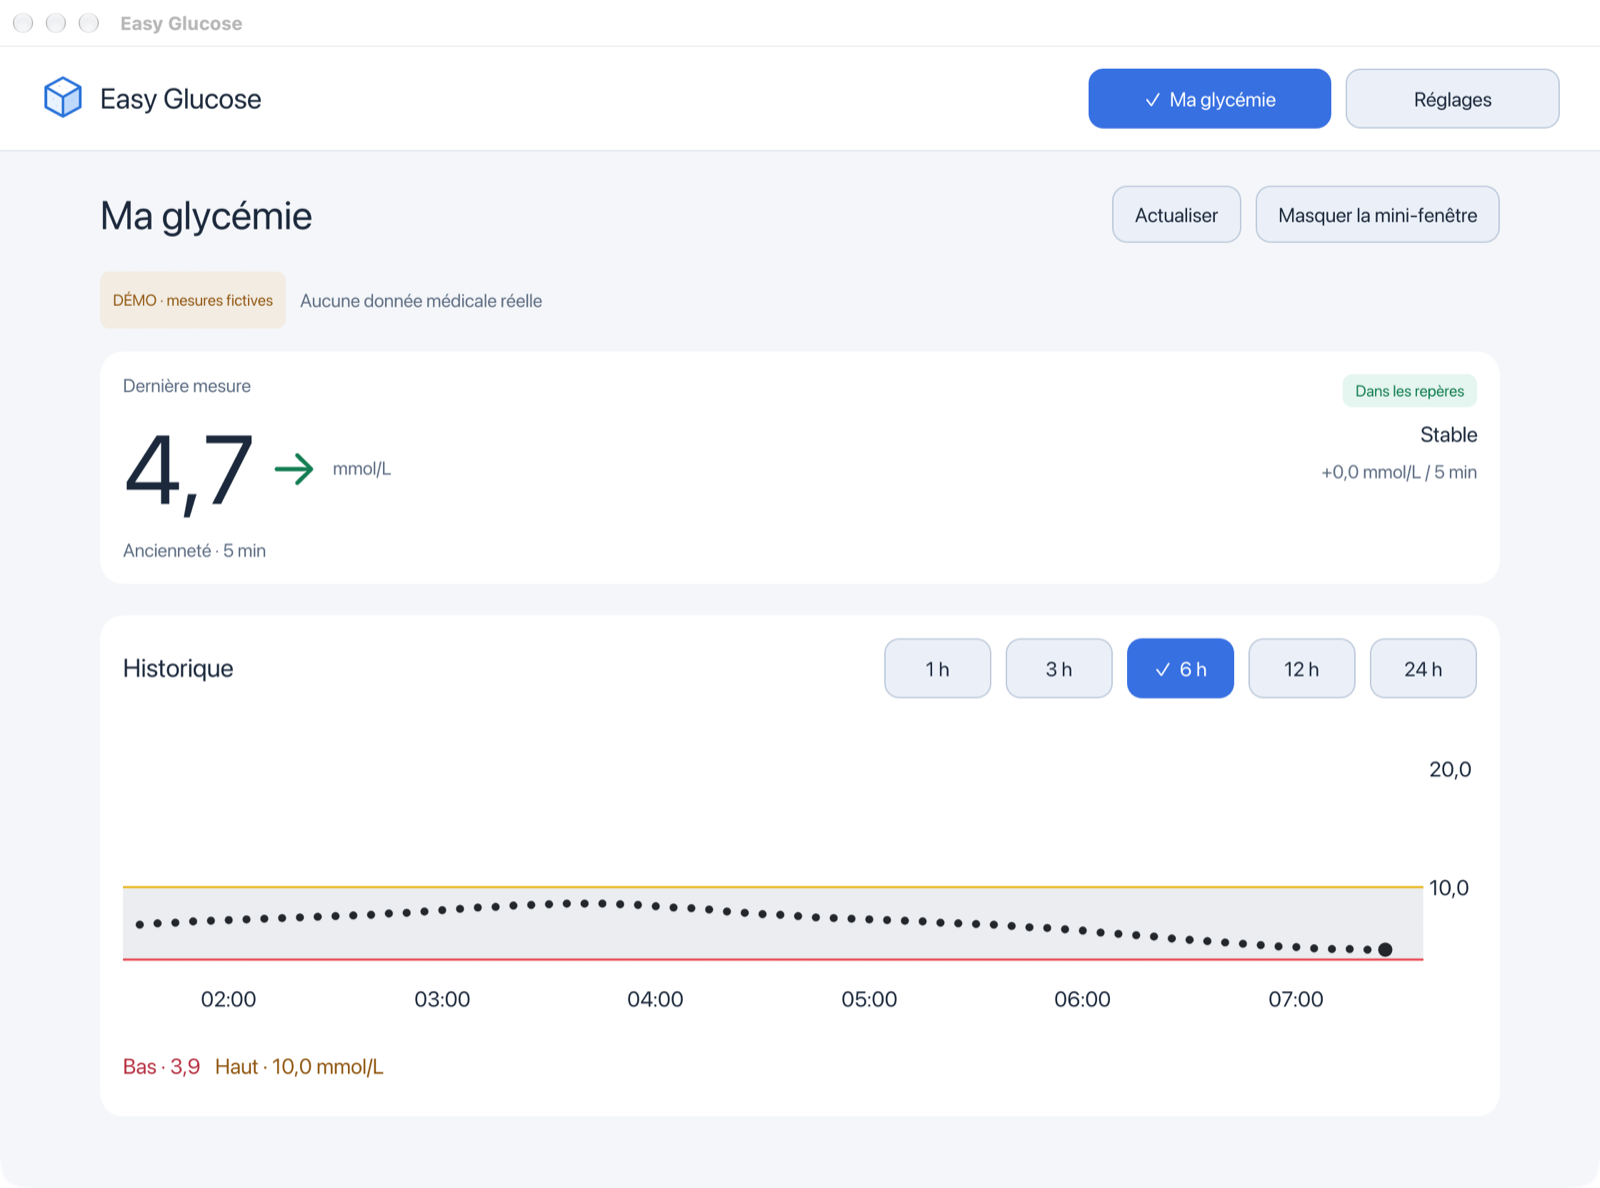
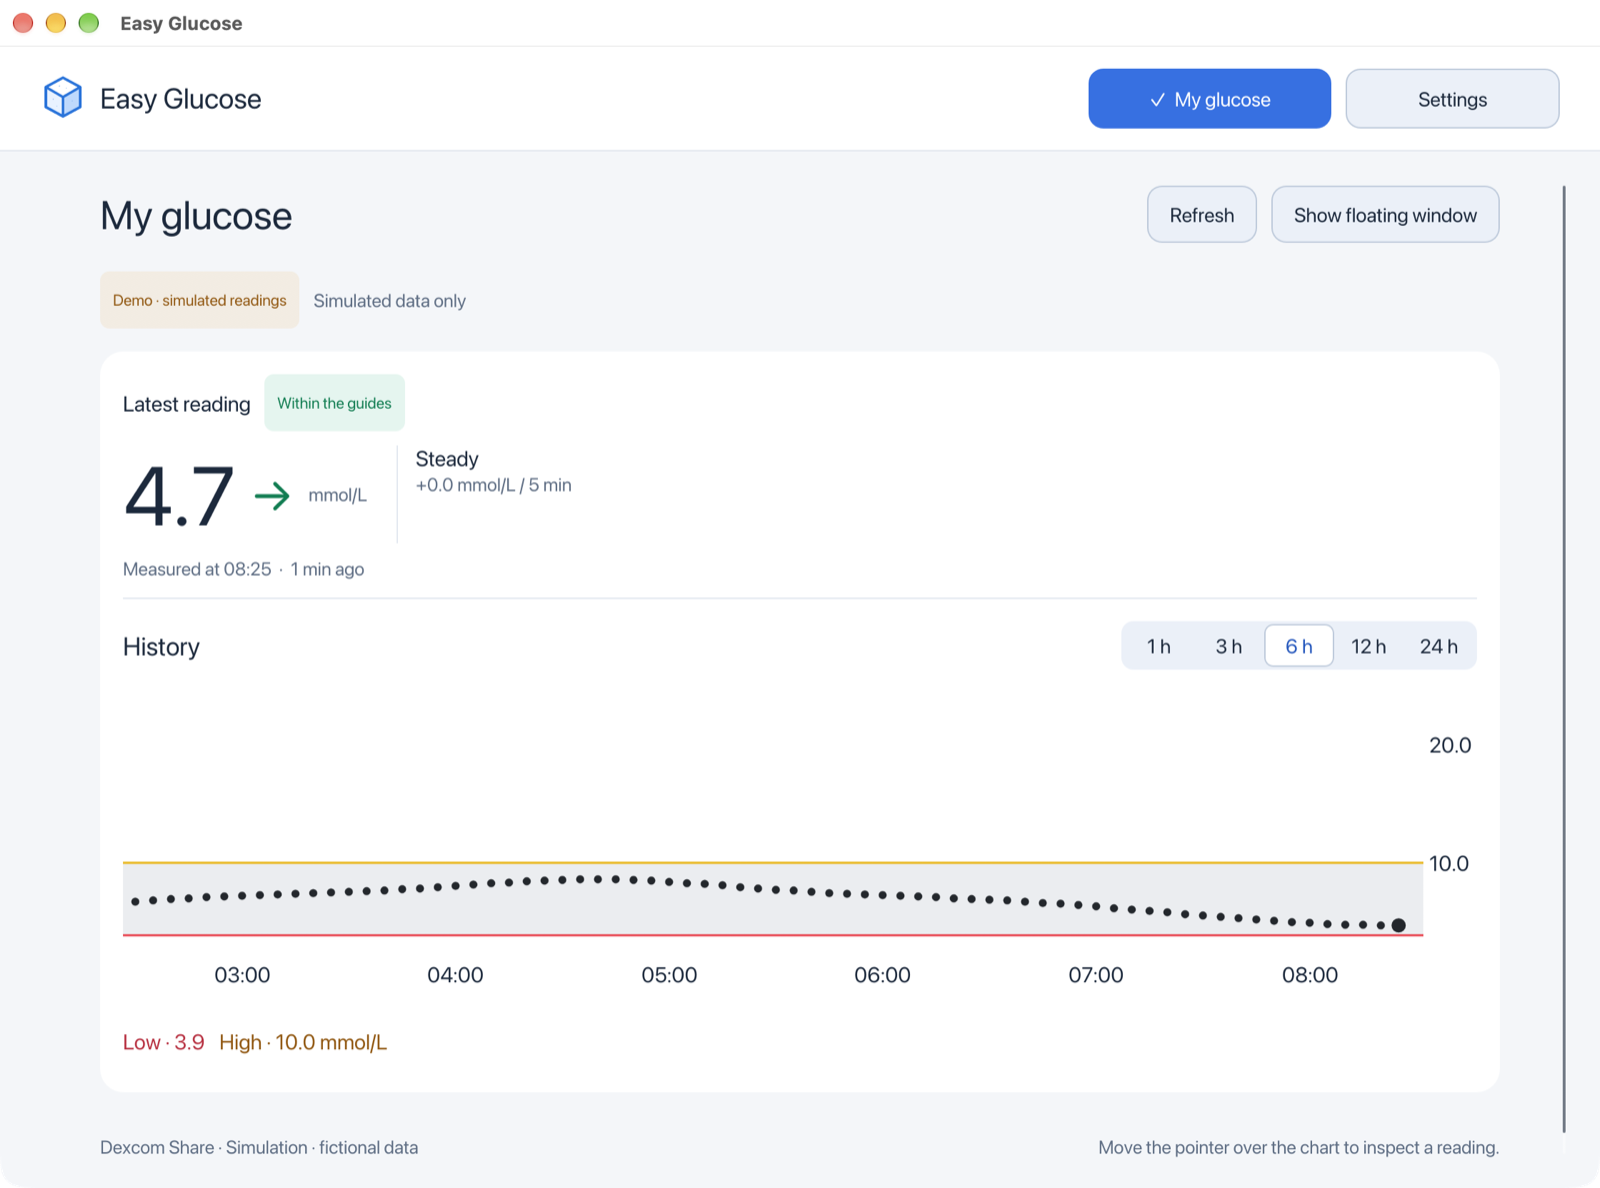
Group the latest glucose reading above its history
Keep the value, trend, change and measurement time together above the chart. Use one period selector and show relative time in all twenty languages.

Cover clock and stale boundaries and refresh the dashboard preview.

diff --git a/src/ui/dashboard.rs b/src/ui/dashboard.rs
@@ -1,7 +1,9 @@
 use crate::i18n::Text;
 use crate::{
     app::App,
-    core::{GAP_SECONDS, Reading, Unit, chart_segments, nearest_reading, recent_delta},
+    core::{
+        GAP_SECONDS, Reading, STALE_SECONDS, Unit, chart_segments, nearest_reading, recent_delta,
+    },
     services::State,
     ui::{self, theme},
 };
@@ -25,29 +27,37 @@ pub fn reading_color(app: &App) -> egui::Color32 {
     }
 }
 pub fn freshness(reading: &Reading) -> String {
-    let age = reading.age_seconds(Utc::now());
+    relative_age(reading.age_seconds(Utc::now()))
+}
+
+fn relative_age(age: i64) -> String {
     if age < -60 {
-        Text::Clock.get().into()
-    } else if age < 60 {
-        Text::JustNow.get().into()
-    } else if age < 3600 {
-        let duration = format!("{} {}", age / 60, Text::Minute.get());
-        if age >= 600 {
-            format!("{duration} · {}", Text::Stale.get())
-        } else {
-            format!("{} · {duration}", Text::Age.get())
-        }
+        return Text::Clock.get().into();
+    }
+    if age < 60 {
+        return Text::JustNow.get().into();
+    }
+    let minutes = (age % 3600) / 60;
+    let duration = if age < 3600 {
+        format!("{minutes} {}", Text::Minute.get())
+    } else if minutes == 0 {
+        format!("{} {}", age / 3600, Text::Hour.get())
     } else {
         format!(
-            "{} {} {} {} · {}",
+            "{} {} {minutes} {}",
             age / 3600,
             Text::Hour.get(),
-            (age % 3600) / 60,
-            Text::Minute.get(),
-            Text::Stale.get()
+            Text::Minute.get()
         )
+    };
+    let elapsed = Text::Ago.get().replace("{duration}", &duration);
+    if age >= STALE_SECONDS {
+        format!("{elapsed} · {}", Text::Stale.get())
+    } else {
+        elapsed
     }
 }
+
 pub fn show(app: &mut App, ui: &mut egui::Ui) {
     let p = theme::palette(ui.ctx());
     ui.horizontal(|ui| {
@@ -103,88 +113,78 @@ pub fn show(app: &mut App, ui: &mut egui::Ui) {
         .inner_margin(16)
         .show(ui, |ui| {
             ui.set_min_width(ui.available_width());
-            ui.columns(2, |cols| {
-                cols[0].vertical(|ui| {
-                    ui::muted(ui, Text::Latest.get());
-                    ui.horizontal(|ui| {
-                        let reading = app.snapshot.readings.last();
-                        ui.label(
-                            RichText::new(
-                                reading
-                                    .map(|r| r.display(app.config.unit))
-                                    .unwrap_or("—".into()),
-                            )
-                            .size(68.0)
+            ui.horizontal(|ui| {
+                ui.label(RichText::new(Text::Latest.get()).strong());
+                if let Some(reading) = app.snapshot.readings.last()
+                    && !reading.stale(Utc::now())
+                {
+                    let label = if reading.mgdl < app.config.low {
+                        Text::Below
+                    } else if reading.mgdl > app.config.high {
+                        Text::Above
+                    } else {
+                        Text::Within
+                    };
+                    ui::pill(ui, label.get(), reading_color(app));
+                }
+            });
+            if let Some(reading) = app.snapshot.readings.last() {
+                ui.horizontal(|ui| {
+                    ui.label(
+                        RichText::new(reading.display(app.config.unit))
+                            .size(58.0)
                             .strong(),
-                        );
-                        ui.label(
-                            RichText::new(reading.map(|r| r.trend.arrow()).unwrap_or("—"))
-                                .size(38.0)
-                                .color(theme::ink(ui.ctx(), reading_color(app))),
-                        );
-                        ui::muted(ui, app.config.unit.label());
-                    });
-                    ui::muted(
-                        ui,
-                        app.snapshot
-                            .readings
-                            .last()
-                            .map(freshness)
-                            .unwrap_or(Text::ConnectHint.get().into()),
                     );
-                });
-                cols[1].with_layout(egui::Layout::top_down(egui::Align::RIGHT), |ui| {
-                    ui.with_layout(egui::Layout::top_down(egui::Align::RIGHT), |ui| {
-                        if let Some(r) = app.snapshot.readings.last() {
-                            let label = if r.stale(Utc::now()) {
-                                Text::Stale.get()
-                            } else if r.mgdl < app.config.low {
-                                Text::Below.get()
-                            } else if r.mgdl > app.config.high {
-                                Text::Above.get()
-                            } else {
-                                Text::Within.get()
-                            };
-                            ui::pill(ui, label, reading_color(app));
-                            ui.label(r.trend.label());
-                            if let Some((delta, minutes)) = recent_delta(&app.snapshot.readings) {
-                                ui::muted(
-                                    ui,
-                                    format!(
-                                        "{} {} / {minutes} {}",
-                                        app.config.unit.delta(delta),
-                                        app.config.unit.label(),
-                                        Text::Minute.get()
-                                    ),
-                                );
-                            }
-                        } else if ui::primary(ui, Text::ConnectSource.get()).clicked() {
-                            app.account_open = true;
+                    ui.label(
+                        RichText::new(reading.trend.arrow())
+                            .size(34.0)
+                            .color(theme::ink(ui.ctx(), reading_color(app))),
+                    );
+                    ui::muted(ui, app.config.unit.label());
+                    ui.add_space(8.0);
+                    ui.separator();
+                    ui.vertical(|ui| {
+                        ui.spacing_mut().item_spacing.y = 2.0;
+                        ui.label(reading.trend.label());
+                        if let Some((delta, minutes)) = recent_delta(&app.snapshot.readings) {
+                            ui::muted(
+                                ui,
+                                format!(
+                                    "{} {} / {minutes} {}",
+                                    app.config.unit.delta(delta),
+                                    app.config.unit.label(),
+                                    Text::Minute.get()
+                                ),
+                            );
                         }
                     });
                 });
-            });
-        });
-    ui.add_space(12.0);
-    egui::Frame::new()
-        .fill(p.surface)
-        .corner_radius(16)
-        .inner_margin(16)
-        .show(ui, |ui| {
-            ui.set_min_width(ui.available_width());
+                ui::muted(
+                    ui,
+                    format!(
+                        "{} {}  ·  {}",
+                        Text::Measured.get(),
+                        reading.measured_at.with_timezone(&Local).format("%H:%M"),
+                        freshness(reading)
+                    ),
+                );
+            } else {
+                ui::muted(ui, Text::ConnectHint.get());
+                if ui::primary(ui, Text::ConnectSource.get()).clicked() {
+                    app.account_open = true;
+                }
+            }
+            ui.separator();
             ui.horizontal(|ui| {
                 ui.label(RichText::new(Text::History.get()).size(18.0).strong());
                 ui.with_layout(egui::Layout::right_to_left(egui::Align::Center), |ui| {
-                    for hours in [24, 12, 6, 3, 1] {
-                        if ui::choice(
-                            ui,
-                            &mut app.config.period_hours,
-                            hours,
-                            &format!("{hours} {}", Text::Hour.get()),
-                            75.0,
-                        ) {
-                            app.mark_config();
-                        }
+                    let durations = [1, 3, 6, 12, 24]
+                        .map(|hours| (hours, format!("{hours} {}", Text::Hour.get())));
+                    let options = durations
+                        .each_ref()
+                        .map(|(hours, label)| (*hours, ui::Segment::Text(label)));
+                    if ui::segments(ui, &mut app.config.period_hours, &options) {
+                        app.mark_config();
                     }
                 });
             });
@@ -451,5 +451,22 @@ pub fn chart(
     }
     if readings.is_empty() && !mini {
         ui::muted(ui, Text::NoData.get());
+    }
+}
+
+#[cfg(test)]
+mod tests {
+    use super::*;
+
+    #[test]
+    fn relative_age_keeps_clock_and_stale_indicators_at_their_boundaries() {
+        assert_eq!(relative_age(-61), Text::Clock.get());
+        assert_eq!(relative_age(-60), Text::JustNow.get());
+        assert_eq!(relative_age(59), Text::JustNow.get());
+        assert_eq!(relative_age(120), "2 min ago");
+        assert_eq!(relative_age(STALE_SECONDS - 1), "9 min ago");
+        assert_eq!(relative_age(STALE_SECONDS), "10 min ago · Stale reading");
+        assert_eq!(relative_age(3600), "1 h ago · Stale reading");
+        assert_eq!(relative_age(3660), "1 h 1 min ago · Stale reading");
     }
 }

diff --git a/tests/languages.rs b/tests/languages.rs
@@ -27,6 +27,7 @@ fn a_saved_language_changes_numbers_and_existing_service_messages() {
     assert_eq!(i18n::notice(&earlier_error), Text::SessionExpired.get());
     for &(code, _) in LANGUAGES {
         i18n::activate(Some(code));
+        assert_eq!(Text::Ago.get().matches("{duration}").count(), 1, "{code}");
         assert_eq!(i18n::notice(&earlier_error), Text::SessionExpired.get());
     }
     i18n::activate(Some("en-US"));
